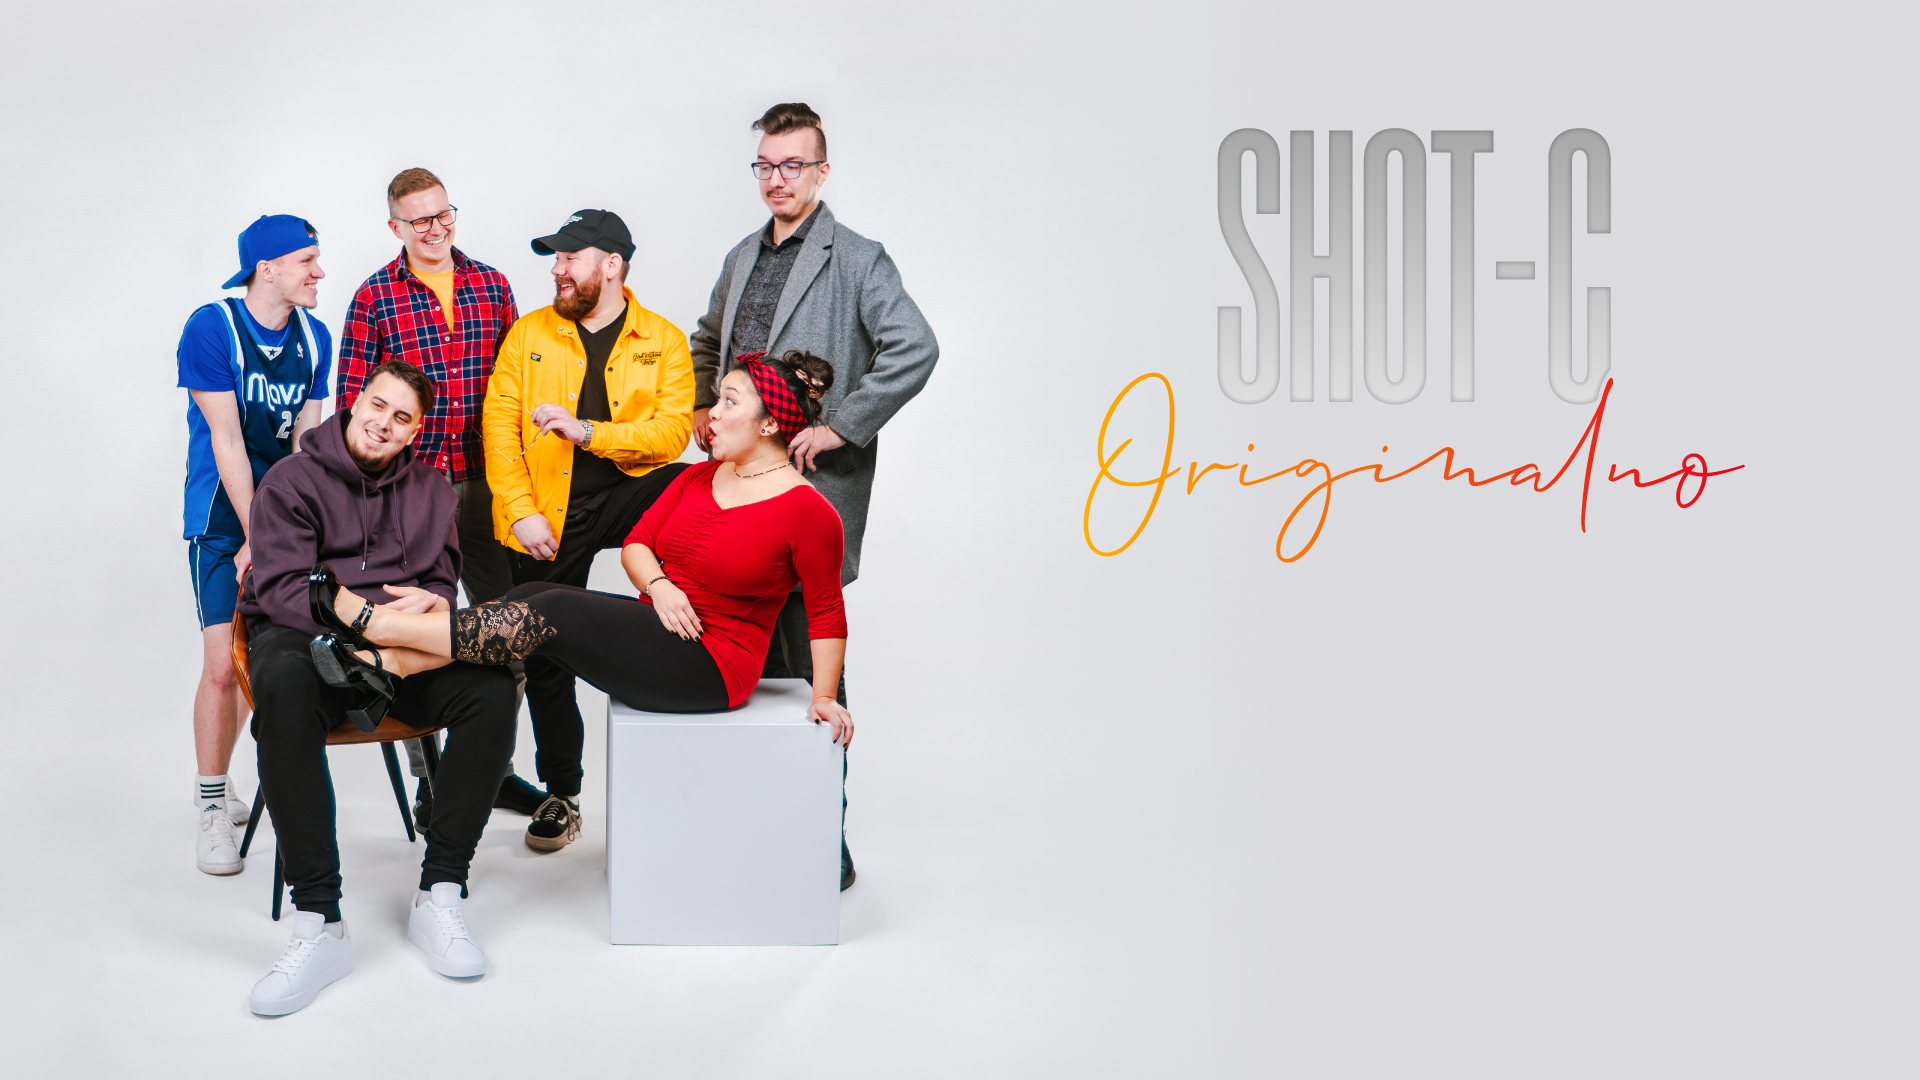
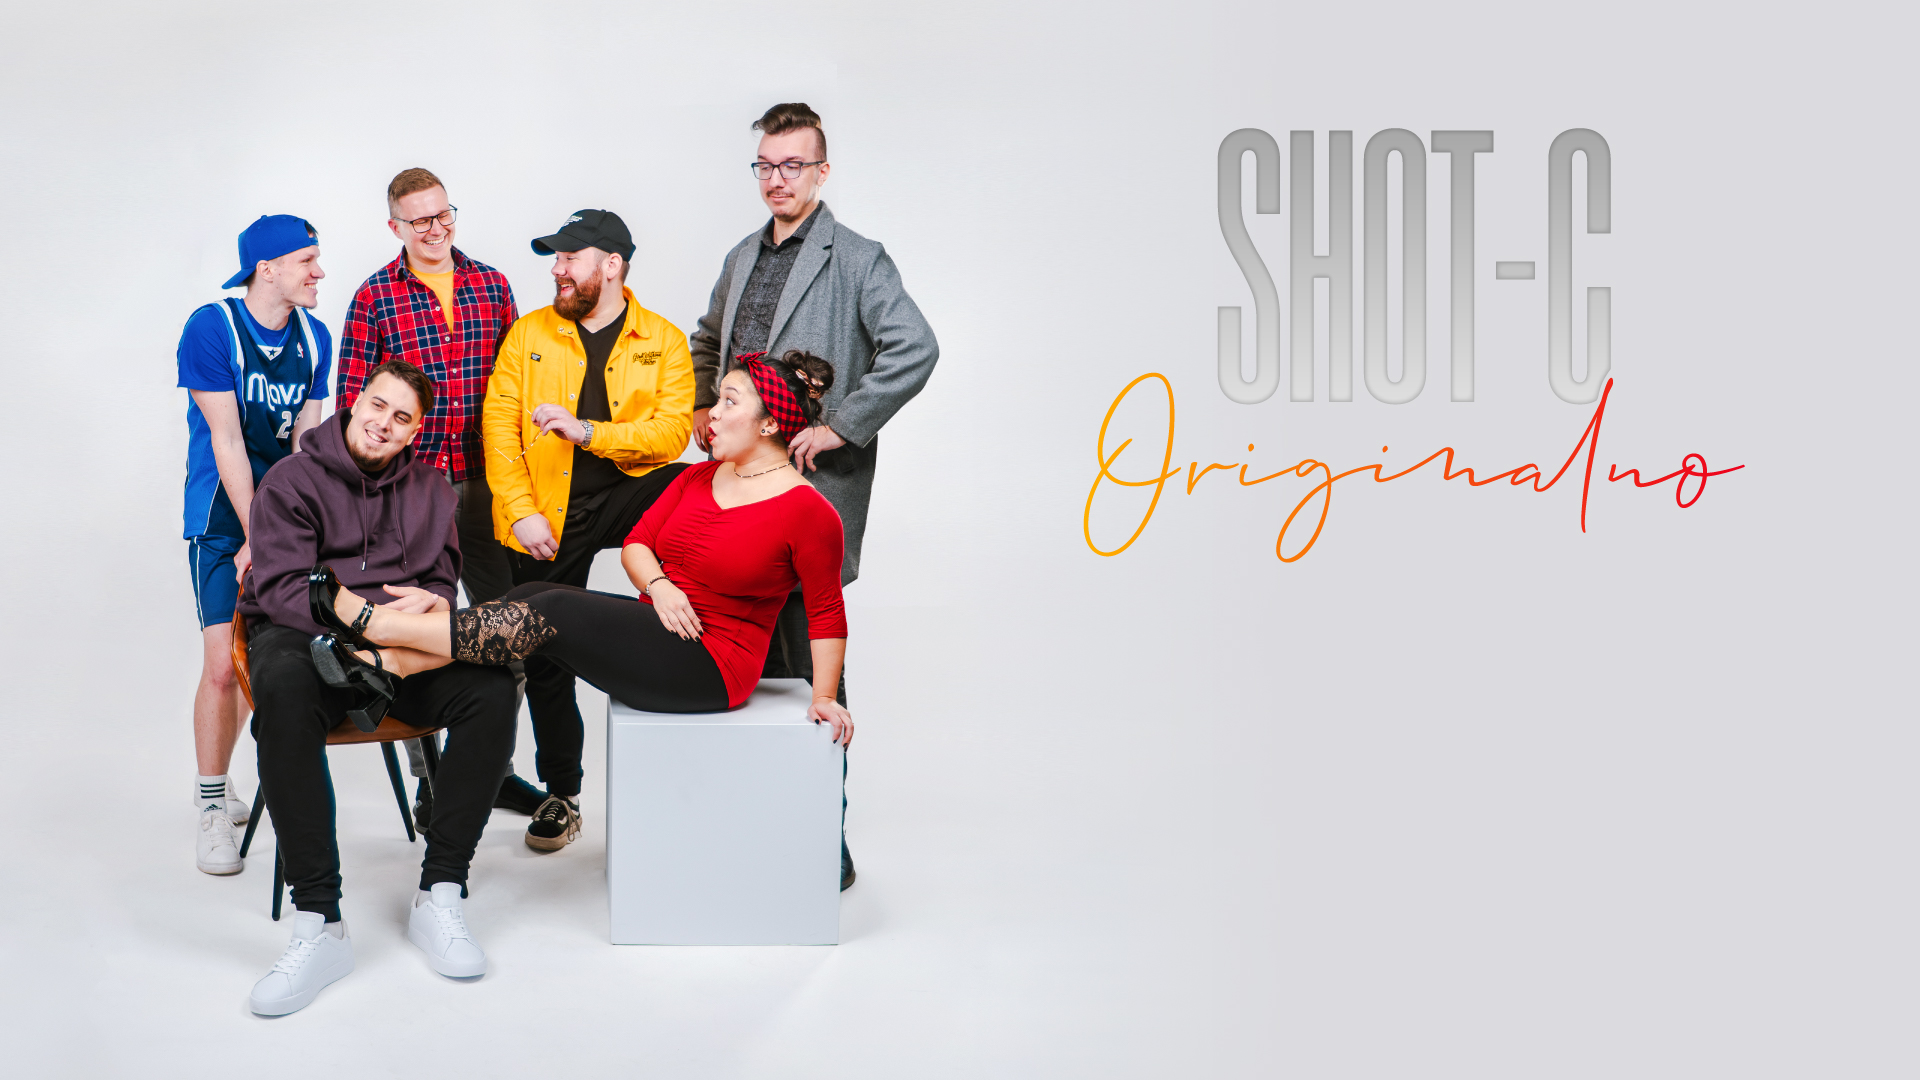
Nový web: výraznější nápisy ve Videích, grafika hero v plné kvalitě (#33)
- obrysový nápis Originalno v pásu Videa tmavší a silnější
- hero-desktop.jpg a hero-mobile.jpg vráceny na originály od grafika
  (bez mé rekomprese)

Claude-Session: https://claude.ai/code/session_012MZyNQj6zv6Dg9o5afNAgL

diff --git a/novy-web/assets/css/style.css b/novy-web/assets/css/style.css
@@ -386,7 +386,7 @@ button { font: inherit; color: inherit; }
 .videos__bg span {
   display: block; white-space: nowrap;
   font: 400 clamp(8rem, 22vw, 20rem)/.9 var(--font-script);
-  color: transparent; -webkit-text-stroke: 1px rgba(24,24,27,.14);
+  color: transparent; -webkit-text-stroke: 1.5px rgba(24,24,27,.32);
   transform: translateX(-6%);
 }
 .videos__bg span:nth-child(2) { transform: translateX(-28%); }
